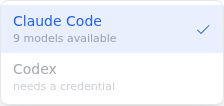
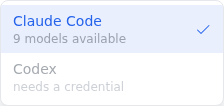
D4, D10 and D11 are closed. PR [#2150](https://github.com/nikzlabs/shipit/pull/2150) is open, planning#321 has a comment

diff --git a/src/client/components/BillingModePill.test.tsx b/src/client/components/BillingModePill.test.tsx
@@ -1,0 +1,51 @@
+/**
+ * docs/252 — the billing-mode pill.
+ *
+ * The component exists so Settings and the composer's model menu cannot make
+ * the same statement two different ways, so what is pinned here is exactly the
+ * contract that reuse depends on: the two labels, the two colours, and — the
+ * one that actually broke — that it looks the same inside a parent with its own
+ * typography.
+ */
+
+import { describe, it, expect, afterEach } from "vitest";
+import { render, screen, cleanup } from "@testing-library/react";
+import { BillingModePill, MODE_LABEL } from "./BillingModePill.js";
+import { DropdownMenuLabel } from "./ui/dropdown-menu.js";
+
+afterEach(cleanup);
+
+describe("BillingModePill", () => {
+  it("names a subscription and a key the way the catalogue does", () => {
+    render(<BillingModePill billingMode="sub" data-testid="sub" />);
+    render(<BillingModePill billingMode="key" data-testid="key" />);
+    expect(screen.getByTestId("sub")).toHaveTextContent(MODE_LABEL.sub);
+    expect(screen.getByTestId("key")).toHaveTextContent(MODE_LABEL.key);
+  });
+
+  it("tints a subscription with the accent and a key with success", () => {
+    // Two colours, both semantic tokens — the mock's purple/green pair reads as
+    // whatever the active theme's accent and success are.
+    render(<BillingModePill billingMode="sub" data-testid="sub" />);
+    render(<BillingModePill billingMode="key" data-testid="key" />);
+    expect(screen.getByTestId("sub").className).toContain("--color-accent-subtle");
+    expect(screen.getByTestId("key").className).toContain("--color-success-subtle");
+    expect(screen.getByTestId("sub").className).toContain("rounded-full");
+  });
+
+  it("keeps its own casing inside an uppercase parent", () => {
+    // The regression this pins: the model menu nests the pill inside
+    // `DropdownMenuLabel`, which is `uppercase tracking-wider`. The pill
+    // inherited it and read "SUBSCRIPTION" in the menu while the service card
+    // said "Subscription" — one statement, two appearances, which is the thing
+    // sharing the component was supposed to rule out. `toHaveTextContent` reads
+    // source text and cannot see a CSS transform, so the class is the assertion.
+    render(
+      <DropdownMenuLabel>
+        <BillingModePill billingMode="sub" data-testid="sub" />
+      </DropdownMenuLabel>,
+    );
+    expect(screen.getByTestId("sub").className).toContain("normal-case");
+    expect(screen.getByTestId("sub").className).toContain("tracking-normal");
+  });
+});

diff --git a/src/client/components/ModelPicker.test.tsx b/src/client/components/ModelPicker.test.tsx
@@ -265,25 +265,21 @@ describe("ModelSelector", () => {
     expect(menu).toHaveTextContent("API key");
   });
 
-  it("states the billing mode as a pill, the same one Settings puts on a service card (D10)", async () => {
+  it("states each group's billing mode as a pill, not as text after the name (D10)", async () => {
     // Plain tertiary text run on after the service name read as a qualifier of
     // the service. The mode is the other half of the pair a model is selected
-    // by (req 5), so it gets its own coloured pill at the right edge — and the
-    // same component as the card, so the two surfaces cannot drift.
+    // by (req 5), so it gets its own pill — the same component Settings puts on
+    // a service card. What the pill LOOKS like is `BillingModePill`'s own
+    // contract and is pinned in its co-located test; what belongs here is that
+    // each group gets one, carrying that group's mode.
     const user = userEvent.setup();
     render(
       <ModelSelector agents={agents} activeAgentId="claude" modelInfo={null} onModelChange={vi.fn()} />,
     );
     await user.click(screen.getByTestId("model-trigger"));
 
-    const sub = screen.getByTestId("model-group-mode-sub");
-    const key = screen.getAllByTestId("model-group-mode-key")[0];
-    expect(sub).toHaveTextContent("Subscription");
-    expect(key).toHaveTextContent("API key");
-    expect(sub.className).toContain("rounded-full");
-    // Purple for a subscription, green for a key — the mock's two colours.
-    expect(sub.className).toContain("--color-accent-subtle");
-    expect(key.className).toContain("--color-success-subtle");
+    expect(screen.getByTestId("model-group-mode-sub")).toHaveTextContent("Subscription");
+    expect(screen.getAllByTestId("model-group-mode-key")[0]).toHaveTextContent("API key");
   });
 
   it("hands the caller the whole triple, not a bare model id", async () => {

diff --git a/src/client/components/BillingModePill.tsx b/src/client/components/BillingModePill.tsx
@@ -27,7 +27,13 @@ export function BillingModePill({
       // it onto the accent tint — the mock's purple — while `success` already
       // carries the green the key pill wants.
       variant={billingMode === "sub" ? "default" : "success"}
-      className={`px-1.5 text-[10px] ${
+      // `normal-case tracking-normal` is load-bearing, not tidiness: the model
+      // menu nests this inside `DropdownMenuLabel`, whose base style is
+      // `uppercase tracking-wider`. Without the reset the same pill reads
+      // "SUBSCRIPTION" in the menu and "Subscription" on the card — the exact
+      // drift this component exists to prevent. It belongs here rather than at
+      // the call site so reuse stays context-independent.
+      className={`px-1.5 text-[10px] normal-case tracking-normal ${
         billingMode === "sub" ? "bg-(--color-accent-subtle) text-(--color-accent) " : ""
       }${className}`}
       {...rest}

diff --git a/src/client/components/ModelPicker.tsx b/src/client/components/ModelPicker.tsx
@@ -319,7 +319,7 @@ export function HarnessSelector({
                 */}
                 <span className="min-w-0 flex-1">
                   <span className="block truncate">{agent.name}</span>
-                  <span className="block text-[11px] text-(--color-text-tertiary)">
+                  <span className="block text-xs text-(--color-text-tertiary)">
                     {agent.hasRunnableModels
                       ? `${rows.length} model${rows.length === 1 ? "" : "s"} available`
                       : "needs a credential"}

diff --git a/docs/252-custom-models/ui-audit.md b/docs/252-custom-models/ui-audit.md
@@ -56,7 +56,7 @@ as such.
 | D7 ✅ closed | Subscription card, routing controls | A visually separate shaded footer titled **HOW SHIPIT PICKS BETWEEN THESE ACCOUNTS**, holding the two radios and the cutoff row. | The two radios sit inline in the card body with **no section heading**, between the credential rows and the model chips. | (c) | `ServicesPanel.tsx:280-285`, `:375-391`. See `shipped-services.png` (GLM subscription card). | Small: a heading and a background band. |
 | D8 ✅ closed | Subscription card with one credential | An explanatory strip: "One account — nothing to route between yet. Add a second to choose an order and a strategy." | Nothing. The routing block is simply absent. | (c) | `ServicesPanel.tsx:280` (`multiple && stringRoutes.length > 1`) | Small, but weigh it against `plan.md:2069-2072`, which argues *against* sentences explaining an absence (for the key card). |
 | D9 ✅ closed | Every card header | Service avatar/initial badge; account-count pill (`2 accounts`). | Neither. | (c) | `ServicesPanel.tsx:238-255` | Small, cosmetic. |
-| D10 ✅ closed | Model menu, group header | `SERVICE NAME` at left, billing mode as a **coloured pill** at the right edge (purple `Subscription`, green `API key`). Model rows are mono model ids. | Service name plus billing mode as **plain tertiary text** immediately after it; rows use friendly labels (`V4 Flash`, `Opus 5`), so the same model reads as `V4 Flash` under DeepSeek and `DeepSeek V4 Flash` under OpenRouter. | (c) | `ModelPicker.tsx:477-482` (label), `:497` (`row.label ?? formatModelName`). Compare `mock-picker-model-menu.png` / `shipped-picker-model-menu.png`. | Done — the pill is `BillingModePill`, the one Settings puts on a service card, so the two surfaces cannot drift. **The label inconsistency is deliberately still open**: the same model reads `V4 Flash` under DeepSeek and `DeepSeek V4 Flash` under OpenRouter, which is decided by each mode's `label` in `catalogue/services.ts`, not by the picker. Fixing it in the picker would paper over a catalogue question. |
+| D10 ✅ closed | Model menu, group header | `SERVICE NAME` at left, billing mode as a **coloured pill** at the right edge (purple `Subscription`, green `API key`). Model rows are mono model ids. | Service name plus billing mode as **plain tertiary text** immediately after it; rows use friendly labels (`V4 Flash`, `Opus 5`), so the same model reads as `V4 Flash` under DeepSeek and `DeepSeek V4 Flash` under OpenRouter. | (c) | `ModelPicker.tsx:477-482` (label), `:497` (`row.label ?? formatModelName`). Compare `mock-picker-model-menu.png` / `shipped-picker-model-menu.png`. | Done — the pill is `BillingModePill`, the one Settings puts on a service card, so the two surfaces cannot drift. One trap the extraction walked into and a Codex review caught: the pill carries `normal-case tracking-normal` **itself**, because the model menu nests it inside `DropdownMenuLabel` (`uppercase tracking-wider`) and the old inline text reset that at the call site — without it the pill read `SUBSCRIPTION` in the menu and `Subscription` on the card, which is the drift it exists to stop. **The label inconsistency is deliberately still open**: the same model reads `V4 Flash` under DeepSeek and `DeepSeek V4 Flash` under OpenRouter, which is decided by each mode's `label` in `catalogue/services.ts`, not by the picker. Fixing it in the picker would paper over a catalogue question. |
 | D11 ✅ closed | Harness menu row | Two lines — name, then `7 models available` beneath it. | One line — name, then `9 models` right-aligned; an uncredentialed harness reads `needs a credential` and is disabled. | (c), and the disabled-state copy is an improvement the mock lacks | `ModelPicker.tsx:212-243` | Done — name over count, `N models available`, matching what `ChoiceRow` already renders in the composer's settings menu. The `needs a credential` copy and the disabled row are kept. See `fix-picker-harness-menu.png`. |
 | D12 | Settings → Harnesses | A whole screen: harness × API style × services-it-can-drive, plus the Background-work row. | Does not exist. | **(b)** | `plan.md:2001-2008` — "**So there is no Settings → Harnesses screen**, and dropping it is a real scope cut rather than a deferral." | n/a — do not build. |
 | D13 | Background work | Lives on the Harnesses screen as a one-line row: `Runs on · [Automatic — first available] · currently · [Anthropic · opus-5] · Change`. | Lives at the bottom of **Services**, as a labelled `<select>` with a long description, plus `Currently: DeepSeek · V4 Flash · runs on Claude Code`. | (c) placement + shape; the mock is (d) on content — it omits the derived harness that req 9 requires | `ServicesPanel.tsx:187-189`, `BackgroundWorkSection.tsx:136-188`; `plan.md:2008` explicitly keeps this obligation after cutting the screen. | None needed — this is the design working. Optionally compress the copy. |
